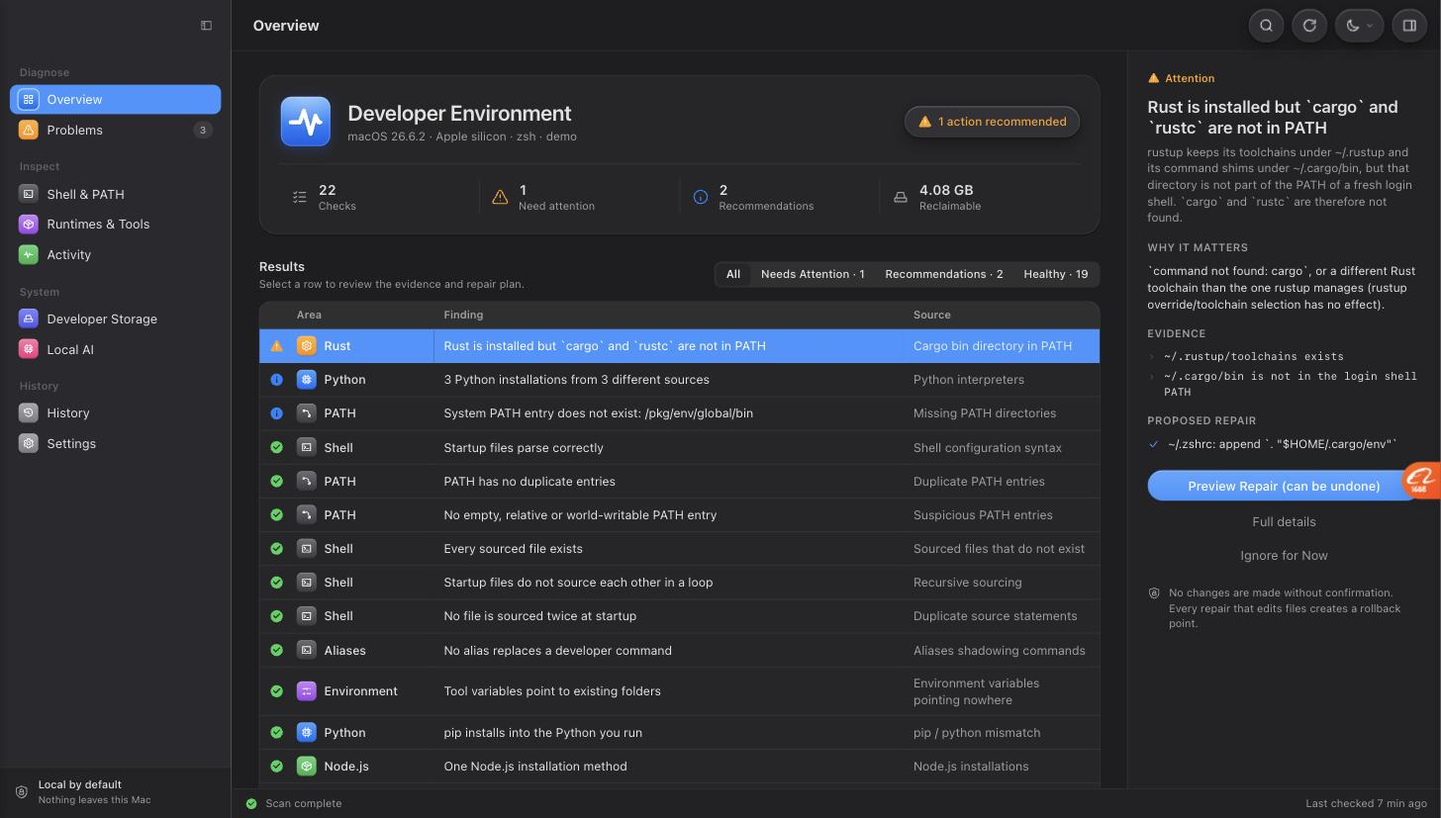
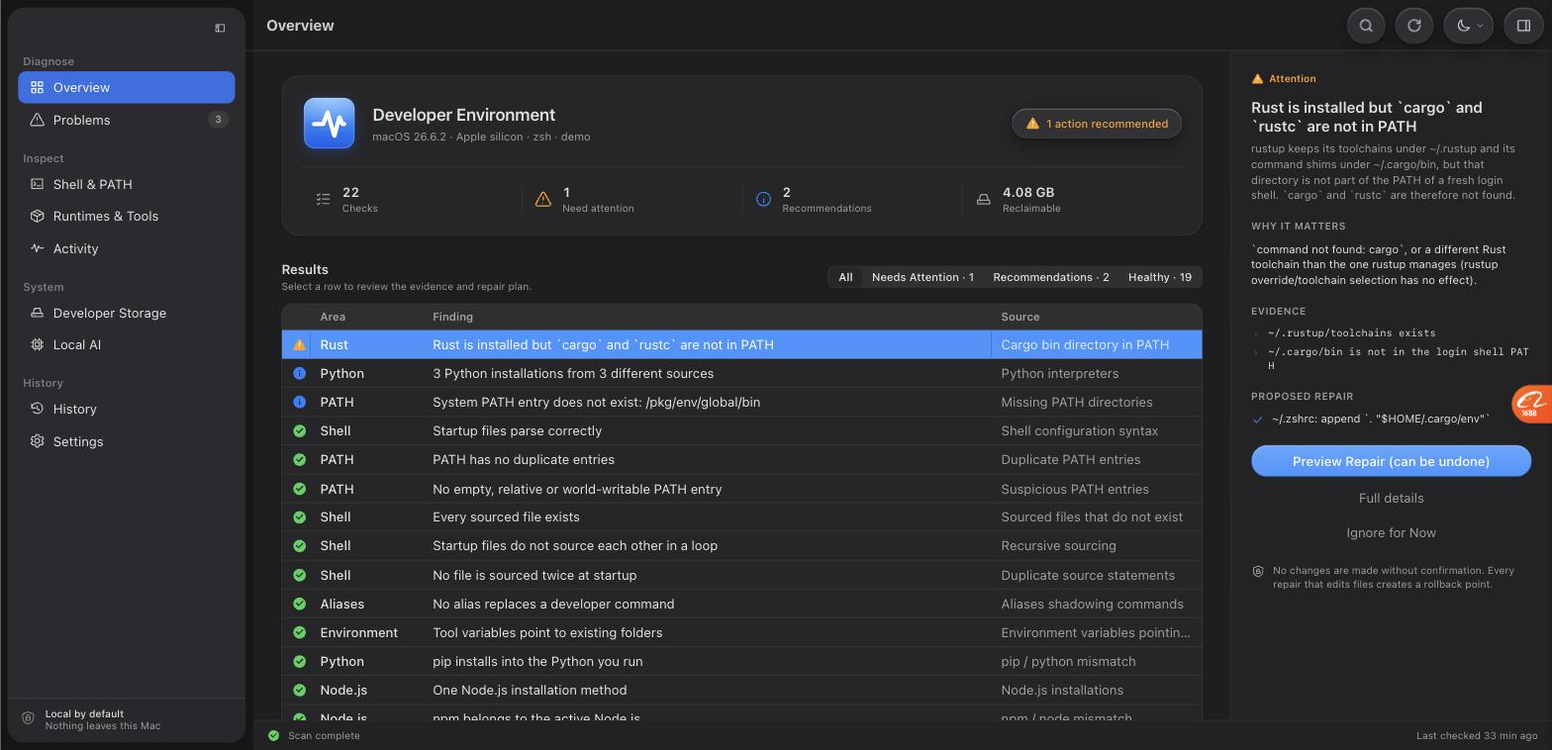
Pixel-match the native prototype: floating sidebar geometry, toolbar buttons, macOS text styles
Measured on the SwiftUI prototype screenshot (1320x820 @2x) and applied:
- Sidebar as a floating panel inset 8pt, 236pt wide, 16pt corners, window
  frame #f4f4f4 behind it; traffic lights at (19,19); sidebar toggle at the
  panel's top-right
- Section headers 11pt semibold #aeaeae with 16pt/3pt spacing, rows 32pt
  tall with 8pt corner selection (#2962d9), monochrome 16pt icons, label at
  37pt from the row edge, 21x17pt count badge, footer 44pt with 10pt text
- Toolbar 51pt with a 1pt hairline, 15pt bold title in #4c4c4c, glass
  buttons 36pt (circle), 50pt (appearance pill) and 40pt (inspector), 8pt
  right margin, #4d4d4d glyphs
- Text styles per macOS: title2 17pt, title3 15pt, subheadline/caption 11/10pt
  in the header card, metrics, results header, inspector and status bar;
  28pt single-line table rows
- Screenshots refreshed

Claude-Session: https://claude.ai/code/session_0154GFVQRPcC9vkXZbvatEC7

diff --git a/apps/desktop/src/styles.css b/apps/desktop/src/styles.css
@@ -24,9 +24,19 @@
   --fill-4: rgba(0, 0, 0, 0.035);
 
   --bg-window: #ffffff;
+  --bg-window-frame: #f4f4f4;
   --bg-control: #ffffff;
-  --bg-sidebar: rgba(243, 243, 247, 0.72);
-  --bg-sidebar-opaque: #f3f3f6;
+  --bg-sidebar: rgba(252, 252, 252, 0.78);
+  --bg-sidebar-opaque: #fafafa;
+  --bg-sidebar-foot: #fefefe;
+  --sidebar-edge: rgba(0, 0, 0, 0.06);
+  --sidebar-divider: #e5e5e5;
+  --sidebar-section: #aeaeae;
+  --sidebar-selection: #2962d9;
+  --toolbar-line: #dedede;
+  --toolbar-title: #4c4c4c;
+  --toolbar-icon: #4d4d4d;
+  --sidebar-icon: rgba(0, 0, 0, 0.72);
   --bg-bar: rgba(251, 251, 252, 0.88);
   --bg-inspector: #f7f7f9;
   --bg-grouped: #f5f5f7;
@@ -53,7 +63,7 @@
   --blue: #0a84ff; --orange: #ff9f0a; --green: #30d158; --red: #ff453a; --yellow: #ffd60a; --gray: #98989d; --purple: #bf5af2; --teal: #40c8e0;
   --label: rgba(255, 255, 255, 0.86); --label-2: rgba(255, 255, 255, 0.55); --label-3: rgba(255, 255, 255, 0.25); --label-4: rgba(255, 255, 255, 0.1);
   --separator: rgba(255, 255, 255, 0.12); --fill: rgba(255, 255, 255, 0.1); --fill-2: rgba(255, 255, 255, 0.08); --fill-3: rgba(255, 255, 255, 0.05); --fill-4: rgba(255, 255, 255, 0.035);
-  --bg-window: #1e1e20; --bg-control: #262628; --bg-sidebar: rgba(40, 40, 44, 0.66); --bg-sidebar-opaque: #2a2a2e; --bg-bar: rgba(34, 34, 37, 0.9); --bg-inspector: #232325; --bg-grouped: #1a1a1c; --bg-table-header: rgba(255, 255, 255, 0.04);
+  --bg-window: #1e1e20; --bg-window-frame: #161618; --bg-control: #262628; --bg-sidebar: rgba(46, 46, 50, 0.72); --bg-sidebar-opaque: #2b2b2f; --bg-sidebar-foot: rgba(40, 40, 44, 0.9); --sidebar-edge: rgba(255, 255, 255, 0.08); --sidebar-divider: rgba(255, 255, 255, 0.1); --sidebar-section: rgba(255, 255, 255, 0.38); --sidebar-selection: #2f6fe4; --toolbar-line: rgba(255, 255, 255, 0.11); --toolbar-title: rgba(255, 255, 255, 0.78); --toolbar-icon: rgba(255, 255, 255, 0.78); --sidebar-icon: rgba(255, 255, 255, 0.72); --bg-bar: rgba(34, 34, 37, 0.9); --bg-inspector: #232325; --bg-grouped: #1a1a1c; --bg-table-header: rgba(255, 255, 255, 0.04);
   --glass-bg: rgba(60, 60, 66, 0.55); --glass-border: rgba(255, 255, 255, 0.12); --glass-highlight: rgba(255, 255, 255, 0.22);
   --glass-shadow: 0 1px 3px rgba(0, 0, 0, 0.4), 0 6px 18px rgba(0, 0, 0, 0.35); --card-shadow: 0 1px 2px rgba(0, 0, 0, 0.3);
 }
@@ -70,47 +80,50 @@ code, pre, .mono { font-family: var(--mono); font-size: 11.5px; }
 pre { background: var(--fill-3); border: 0.5px solid var(--separator); border-radius: var(--r-row); padding: 10px 12px; overflow: auto; white-space: pre; max-height: 400px; margin: 8px 0; }
 h1 { font-size: 22px; font-weight: 600; letter-spacing: -0.01em; margin: 0; }
 h2 { font-size: 13px; font-weight: 600; margin: 24px 0 8px; }
-h3 { font-size: 11px; font-weight: 600; margin: 14px 0 8px; color: var(--label-2); text-transform: uppercase; letter-spacing: 0.04em; }
+h3 { font-size: 10px; font-weight: 600; margin: 16px 0 8px; color: var(--label-2); text-transform: uppercase; letter-spacing: 0.04em; }
 p { margin: 5px 0; }
 .secondary { color: var(--label-2); }
 .tertiary { color: var(--label-3); }
 .caption { font-size: 11px; }
 .caption2 { font-size: 10px; }
-.subheadline { font-size: 12px; }
+.subheadline { font-size: 11px; }
 .headline { font-size: 13px; font-weight: 600; }
-.title2 { font-size: 22px; font-weight: 600; letter-spacing: -0.01em; }
-.title3 { font-size: 17px; font-weight: 600; }
+.title2 { font-size: 17px; font-weight: 600; letter-spacing: -0.01em; }
+.title3 { font-size: 15px; font-weight: 600; }
 .nowrap { white-space: nowrap; }
 .truncate { overflow: hidden; text-overflow: ellipsis; white-space: nowrap; }
 .mono-digits { font-variant-numeric: tabular-nums; }
 
-/* ---------- window ---------- */
-.window { height: 100vh; display: grid; grid-template-columns: 236px minmax(0, 1fr); }
-.window.sidebar-hidden { grid-template-columns: 0 minmax(0, 1fr); }
-.sidebar { background: var(--bg-sidebar); border-right: 0.5px solid var(--separator); display: flex; flex-direction: column; overflow: hidden; min-width: 0; }
+/* ---------- window (measured on the native prototype at 1320x820) ---------- */
+.window { position: relative; height: 100vh; overflow: hidden; background: var(--bg-window-frame); }
+.sidebar { position: absolute; left: 8px; top: 8px; bottom: 8px; width: 236px; border-radius: 16px; background: var(--bg-sidebar); box-shadow: 0 0 0 0.5px var(--sidebar-edge), 0 1px 2px rgba(0,0,0,0.04); display: flex; flex-direction: column; overflow: hidden; transition: transform .18s ease, opacity .18s ease; }
 html.no-tauri .sidebar { background: var(--bg-sidebar-opaque); }
-.window.sidebar-hidden .sidebar { border-right: 0; }
-.sidebar-head { height: 52px; flex: none; display: flex; align-items: center; justify-content: flex-end; padding: 0 12px 0 84px; }
-.sidebar-list { flex: 1; overflow: auto; padding: 0 10px 10px; }
-.side-section { padding: 14px 10px 4px; font-size: 11px; font-weight: 600; color: var(--label-3); }
-.side-row { display: flex; align-items: center; gap: 9px; width: 100%; height: 28px; padding: 0 8px 0 9px; border-radius: var(--r-row); border: 0; background: none; color: var(--label); font: inherit; text-align: left; margin: 1px 0; }
+.window.sidebar-hidden .sidebar { transform: translateX(-260px); opacity: 0; pointer-events: none; }
+.sidebar-head { height: 40px; flex: none; display: flex; align-items: center; justify-content: flex-end; padding: 0 13px 0 76px; }
+.sidebar-head .icon-btn { width: 24px; height: 24px; color: var(--toolbar-icon); }
+.sidebar-head .icon-btn .icon { width: 20px; height: 20px; }
+.sidebar-list { flex: 1; overflow: auto; padding: 7px 10px 8px; }
+.side-section { height: 13px; line-height: 13px; margin: 16px 0 3px; padding: 0 5px; font-size: 11px; font-weight: 600; color: var(--sidebar-section); }
+.sidebar-list > div:first-child > .side-section { margin-top: 0; }
+.side-row { display: flex; align-items: center; gap: 8px; width: 100%; height: 32px; padding: 0 6px 0 11px; border-radius: 8px; border: 0; background: none; color: var(--label); font: inherit; font-size: 13px; text-align: left; margin: 0; }
 .side-row:hover { background: var(--fill-3); }
-.side-row.active { background: var(--accent); color: #fff; }
-.side-row { height: 30px; }
-.tile { display: inline-flex; align-items: center; justify-content: center; color: #fff; flex: none; box-shadow: inset 0 -1px 0 rgba(0,0,0,0.12), inset 0 0.5px 0 rgba(255,255,255,0.35), 0 0.5px 1px rgba(0,0,0,0.25); }
-.tile .icon { stroke-width: 1.9; }
+.side-row .icon { width: 16px; height: 16px; flex: none; color: var(--sidebar-icon); stroke-width: 1.7; }
+.side-row.active .icon { color: #fff; }
+.side-row.active { background: var(--sidebar-selection); color: #fff; }
 .side-row .label { flex: 1; min-width: 0; overflow: hidden; text-overflow: ellipsis; white-space: nowrap; }
-.side-row .badge { font-size: 10px; font-weight: 600; font-variant-numeric: tabular-nums; color: var(--label-2); background: var(--fill-2); padding: 2px 7px; border-radius: var(--pill); }
-.side-row.active .badge { color: #fff; background: rgba(255, 255, 255, 0.25); }
-.side-row.active .tile { box-shadow: 0 0 0 1.5px rgba(255, 255, 255, 0.55); }
-.sidebar-foot { flex: none; border-top: 0.5px solid var(--separator); background: var(--bg-bar); padding: 10px 14px 12px; display: flex; gap: 9px; align-items: center; }
-.sidebar-foot .icon { color: var(--label-2); width: 16px; height: 16px; }
-.sidebar-foot .t { font-size: 11px; font-weight: 500; }
-.sidebar-foot .s { font-size: 10px; color: var(--label-2); }
+.side-row .badge { height: 17px; min-width: 21px; padding: 0 7px; display: inline-flex; align-items: center; justify-content: center; font-size: 10px; font-weight: 600; font-variant-numeric: tabular-nums; color: var(--label-2); background: var(--fill-2); border-radius: 8.5px; }
+.side-row.active .badge { color: #fff; background: rgba(255, 255, 255, 0.28); }
+.sidebar-foot { flex: none; height: 44px; border-top: 1px solid var(--sidebar-divider); background: var(--bg-sidebar-foot); padding: 9px 12px 0; display: flex; gap: 9px; align-items: flex-start; }
+.sidebar-foot .icon { color: #7f7f7f; width: 16px; height: 16px; margin-top: 2px; }
+.sidebar-foot .t { font-size: 10px; font-weight: 500; color: var(--label); line-height: 12px; }
+.sidebar-foot .s { font-size: 10px; color: var(--label-2); line-height: 12px; }
 
-.main { display: flex; flex-direction: column; min-width: 0; height: 100vh; background: var(--bg-window); }
-.toolbar { height: 52px; flex: none; display: flex; align-items: center; gap: 8px; padding: 0 14px 0 22px; border-bottom: 0.5px solid var(--separator); background: var(--bg-window); }
-.toolbar .ttl { font-size: 15px; font-weight: 700; letter-spacing: -0.01em; }
+.main { position: absolute; left: 252px; right: 0; top: 0; bottom: 0; display: flex; flex-direction: column; min-width: 0; background: var(--bg-window); transition: left .18s ease; }
+.window.sidebar-hidden .main { left: 0; }
+.toolbar { position: relative; height: 51px; flex: none; display: flex; align-items: center; gap: 10px; padding: 0 8px 0 13px; background: var(--bg-window); }
+.toolbar::after { content: ""; position: absolute; left: -8px; right: 0; bottom: 0; height: 1px; background: var(--toolbar-line); }
+.window.sidebar-hidden .toolbar { padding-left: 84px; }
+.toolbar .ttl { font-size: 15px; font-weight: 700; color: var(--toolbar-title); letter-spacing: -0.01em; }
 .toolbar .spacer { flex: 1; }
 .toolbar .status { font-size: 11px; color: var(--label-2); margin-right: 6px; }
 .body { flex: 1; display: grid; grid-template-columns: minmax(0, 1fr); min-height: 0; }
@@ -119,15 +132,17 @@ html.no-tauri .sidebar { background: var(--bg-sidebar-opaque); }
 .content.narrow { max-width: 1160px; }
 
 /* ---------- glass controls ---------- */
-.tb-btn { position: relative; display: inline-flex; align-items: center; justify-content: center; gap: 4px; height: 34px; min-width: 34px; padding: 0 9px; border-radius: var(--pill); border: 0.5px solid var(--glass-border); background: linear-gradient(var(--tint), var(--tint)), var(--glass-bg); -webkit-backdrop-filter: blur(24px) saturate(1.6); backdrop-filter: blur(24px) saturate(1.6); box-shadow: inset 0 1px 0 var(--glass-highlight), var(--glass-shadow); color: var(--label); font: inherit; }
+.tb-btn { position: relative; display: inline-flex; align-items: center; justify-content: center; gap: 3px; height: 36px; min-width: 36px; padding: 0 10px; border-radius: var(--pill); border: 0.5px solid var(--glass-border); background: linear-gradient(var(--tint), var(--tint)), var(--glass-bg); -webkit-backdrop-filter: blur(24px) saturate(1.6); backdrop-filter: blur(24px) saturate(1.6); box-shadow: inset 0 1px 0 var(--glass-highlight), var(--glass-shadow); color: var(--label); font: inherit; }
 .tb-btn:hover { filter: brightness(1.03); }
 .tb-btn:active { transform: scale(0.96); }
 .tb-btn:disabled { opacity: 0.45; }
+.tb-btn { color: var(--toolbar-icon); }
 .tb-btn .icon { width: 17px; height: 17px; }
+.tb-btn.wide { padding: 0 8px 0 11px; }
 .tb-btn .chev { width: 10px; height: 10px; color: var(--label-2); }
-.tb-group { display: inline-flex; gap: 8px; }
+.tb-group { display: inline-flex; gap: 10px; }
 
-.capsule { display: inline-flex; align-items: center; gap: 6px; padding: 7px 13px; border-radius: var(--pill); border: 0.5px solid var(--glass-border); background: linear-gradient(var(--tint), var(--tint)), var(--glass-bg); -webkit-backdrop-filter: blur(20px); backdrop-filter: blur(20px); box-shadow: inset 0 1px 0 var(--glass-highlight), var(--glass-shadow); font-size: 12px; font-weight: 500; }
+.capsule { display: inline-flex; align-items: center; gap: 6px; padding: 7px 13px; font-size: 11px; font-weight: 500; border-radius: var(--pill); border: 0.5px solid var(--glass-border); background: linear-gradient(var(--tint), var(--tint)), var(--glass-bg); -webkit-backdrop-filter: blur(20px); backdrop-filter: blur(20px); box-shadow: inset 0 1px 0 var(--glass-highlight), var(--glass-shadow); }
 .capsule .icon { width: 15px; height: 15px; }
 .capsule.orange { color: var(--orange); }
 .capsule.green { color: var(--green); }
@@ -159,8 +174,8 @@ input.text:focus, select.text:focus { box-shadow: 0 0 0 3px var(--accent-soft); 
 select.text { -webkit-appearance: none; appearance: none; padding-right: 26px; background-image: linear-gradient(45deg, transparent 50%, var(--label-2) 50%), linear-gradient(135deg, var(--label-2) 50%, transparent 50%); background-position: calc(100% - 13px) 55%, calc(100% - 9px) 55%; background-size: 4px 4px; background-repeat: no-repeat; }
 label.check { display: inline-flex; gap: 6px; align-items: center; font-size: 12px; }
 
-.segmented { display: inline-flex; padding: 2px; border-radius: 7px; background: var(--fill-2); gap: 1px; }
-.segmented button { font: inherit; font-size: 11.5px; font-weight: 500; border: 0; background: transparent; color: var(--label); padding: 3px 10px; border-radius: 5px; }
+.segmented { display: inline-flex; padding: 1.5px; border-radius: 6px; background: var(--fill-2); gap: 1px; }
+.segmented button { font: inherit; font-size: 11px; font-weight: 500; border: 0; background: transparent; color: var(--label); padding: 2px 9px; border-radius: 4.5px; line-height: 15px; }
 .segmented button.active { background: var(--bg-control); box-shadow: 0 0.5px 2px rgba(0,0,0,0.15); font-weight: 600; }
 
 .switch { position: relative; width: 34px; height: 20px; border-radius: var(--pill); background: var(--fill); border: 0; padding: 0; transition: background .15s; flex: none; }
@@ -193,13 +208,13 @@ label.check { display: inline-flex; gap: 6px; align-items: center; font-size: 12
 .grid.cols-4 { grid-template-columns: repeat(4, minmax(0, 1fr)); }
 .section-head { display: flex; align-items: center; justify-content: space-between; gap: 12px; margin: 24px 0 10px; }
 .section-head .h { font-size: 13px; font-weight: 600; }
-.section-head .c { font-size: 11px; color: var(--label-2); margin-top: 1px; }
+.section-head .c { font-size: 10px; color: var(--label-2); margin-top: 1px; }
 .section-head:first-child { margin-top: 0; }
 
 .table-wrap { border: 0.5px solid var(--separator); border-radius: var(--r-table); overflow: hidden; background: var(--bg-control); }
 table.data { width: 100%; border-collapse: separate; border-spacing: 0; }
-table.data th { font-size: 11px; font-weight: 600; color: var(--label-2); text-align: left; padding: 6px 10px; background: var(--bg-table-header); border-bottom: 0.5px solid var(--separator); white-space: nowrap; }
-table.data td { padding: 7px 10px; border-bottom: 0.5px solid var(--separator); vertical-align: middle; font-size: 12.5px; }
+table.data th { font-size: 11px; font-weight: 600; color: var(--label-2); text-align: left; padding: 5px 10px; background: var(--bg-table-header); border-bottom: 0.5px solid var(--separator); white-space: nowrap; }
+table.data td { padding: 5px 10px; height: 28px; border-bottom: 0.5px solid var(--separator); vertical-align: middle; font-size: 13px; }
 table.data tr:last-child td { border-bottom: 0; }
 table.data tr.clickable:hover td { background: var(--fill-4); }
 table.data tr.selected td { background: var(--accent); color: #fff; }
@@ -212,8 +227,8 @@ table.data td .icon.sev { width: 15px; height: 15px; vertical-align: -3px; }
 .metrics { display: flex; align-items: stretch; }
 .metric { flex: 1; display: flex; align-items: center; gap: 10px; padding: 0 12px; }
 .metric .icon { width: 18px; height: 18px; color: var(--label-2); flex: none; }
-.metric .v { font-size: 14px; font-weight: 600; font-variant-numeric: tabular-nums; }
-.metric .l { font-size: 11px; color: var(--label-2); }
+.metric .v { font-size: 13px; font-weight: 600; font-variant-numeric: tabular-nums; }
+.metric .l { font-size: 10px; color: var(--label-2); }
 .metric + .metric { border-left: 0.5px solid var(--separator); }
 .app-tile { width: 54px; height: 54px; border-radius: 14px; background: linear-gradient(180deg, #4ea1ff, #0a6cf5); display: flex; align-items: center; justify-content: center; color: #fff; box-shadow: 0 4px 8px rgba(10, 108, 245, 0.18); flex: none; }
 .app-tile .icon { width: 28px; height: 28px; }
@@ -235,8 +250,8 @@ table.data td .icon.sev { width: 15px; height: 15px; vertical-align: -3px; }
 .hairline { height: 0.5px; background: var(--separator); margin: 12px 0; }
 .evidence { display: flex; gap: 8px; align-items: flex-start; margin: 5px 0; }
 .evidence .icon { width: 9px; height: 9px; color: var(--label-3); margin-top: 4px; flex: none; }
-.evidence .mono { font-size: 11px; word-break: break-all; }
-.check-line { display: flex; gap: 8px; align-items: flex-start; margin: 6px 0; font-size: 12px; }
+.evidence .mono { font-size: 10px; word-break: break-all; }
+.check-line { display: flex; gap: 8px; align-items: flex-start; margin: 6px 0; font-size: 11px; }
 .check-line .icon { width: 13px; height: 13px; color: var(--accent); margin-top: 2px; flex: none; }
 
 details.disclosure > summary { list-style: none; display: inline-flex; align-items: center; gap: 5px; color: var(--accent); font-size: 12px; padding: 4px 0; }
@@ -250,15 +265,15 @@ details.disclosure > .dbody { padding: 4px 0 2px; }
 
 /* ---------- inspector ---------- */
 .inspector { border-left: 0.5px solid var(--separator); background: var(--bg-inspector); overflow: auto; padding: 20px; }
-.inspector .sev { display: inline-flex; align-items: center; gap: 5px; font-size: 11px; font-weight: 600; }
+.inspector .sev { display: inline-flex; align-items: center; gap: 5px; font-size: 10px; font-weight: 600; }
 .inspector .sev .icon { width: 13px; height: 13px; }
-.inspector .ititle { font-size: 17px; font-weight: 600; margin: 8px 0 6px; line-height: 1.25; }
-.inspector .isummary { font-size: 12px; color: var(--label-2); }
-.inspector .note { display: flex; gap: 8px; align-items: flex-start; font-size: 11px; color: var(--label-2); margin-top: 18px; }
+.inspector .ititle { font-size: 15px; font-weight: 600; margin: 8px 0 6px; line-height: 1.25; }
+.inspector .isummary { font-size: 11px; color: var(--label-2); }
+.inspector .note { display: flex; gap: 8px; align-items: flex-start; font-size: 10px; color: var(--label-2); margin-top: 18px; }
 .inspector .note .icon { width: 14px; height: 14px; flex: none; margin-top: 1px; }
 
 /* ---------- status bar ---------- */
-.statusbar { height: 30px; flex: none; display: flex; align-items: center; gap: 8px; padding: 0 14px; border-top: 0.5px solid var(--separator); background: var(--bg-bar); font-size: 11px; color: var(--label-2); }
+.statusbar { height: 30px; flex: none; display: flex; align-items: center; gap: 8px; padding: 0 14px; border-top: 0.5px solid var(--separator); background: var(--bg-bar); font-size: 10px; color: var(--label-2); }
 .statusbar .icon { width: 13px; height: 13px; }
 .statusbar .ok { color: var(--green); }
 .statusbar .spacer { flex: 1; }

diff --git a/apps/desktop/src/components/Toolbar.tsx b/apps/desktop/src/components/Toolbar.tsx
@@ -13,7 +13,7 @@ export function Toolbar({ title, status, scanning, onScan, inspector, onToggleIn
   );
   return (
     <div className="toolbar" data-tauri-drag-region>
-      {sidebarHidden && <button className="tb-btn" onClick={onToggleSidebar} title="Show sidebar"><Icon name="sidebar-left" /></button>}
+      {sidebarHidden && <button className="icon-btn" onClick={onToggleSidebar} title="Show sidebar" style={{ marginRight: 6 }}><Icon name="sidebar-left" size={20} /></button>}
       <span className="ttl" data-tauri-drag-region>{title}</span>
       <div className="spacer" data-tauri-drag-region />
       {tabs && tabs.options.length > 1 && <Segmented options={tabs.options} value={tabs.value} onChange={tabs.onChange} />}
@@ -23,7 +23,7 @@ export function Toolbar({ title, status, scanning, onScan, inspector, onToggleIn
         <button className="tb-btn" onClick={onSearch} title="Search (⌘K)"><Icon name="search" /></button>
         <button className="tb-btn" onClick={onScan} disabled={scanning} title="Run a new diagnostic scan (⌘R)"><Icon name="refresh" /></button>
         <div style={{ position: "relative" }}>
-          <button className="tb-btn" onClick={() => setMenu((m) => !m)} title="Appearance and Liquid Glass"><Icon name={appearanceIcon} /><Icon name="chevron-down" className="chev" /></button>
+          <button className="tb-btn wide" style={{ width: 50 }} onClick={() => setMenu((m) => !m)} title="Appearance and Liquid Glass"><Icon name={appearanceIcon} /><Icon name="chevron-down" className="chev" /></button>
           <Popover open={menu} onClose={() => setMenu(false)}>
             <div className="ph">Appearance</div>
             {(["system", "light", "dark"] as Appearance[]).map((a) => item(a === "system" ? "System" : a === "light" ? "Light" : "Dark", appearance === a, a === "system" ? "half-circle" : a === "light" ? "sun" : "moon", () => setAppearance(a)))}
@@ -32,7 +32,7 @@ export function Toolbar({ title, status, scanning, onScan, inspector, onToggleIn
             {(["clear", "tinted"] as Glass[]).map((g) => item(g === "clear" ? "Clear" : "Tinted", glass === g, undefined, () => setGlass(g)))}
           </Popover>
         </div>
-        {inspector !== null && <button className="tb-btn" onClick={onToggleInspector} title={inspector ? "Hide Inspector (⌥⌘I)" : "Show Inspector (⌥⌘I)"}><Icon name="sidebar-right" /></button>}
+        {inspector !== null && <button className="tb-btn" style={{ width: 40 }} onClick={onToggleInspector} title={inspector ? "Hide Inspector (⌥⌘I)" : "Show Inspector (⌥⌘I)"}><Icon name="sidebar-right" /></button>}
       </div>
     </div>
   );

diff --git a/apps/desktop/src/components/FindingsView.tsx b/apps/desktop/src/components/FindingsView.tsx
@@ -2,8 +2,7 @@ import { useEffect, useMemo, useState } from "react";
 import { api, errorMessage } from "../lib/api";
 import { useNav } from "../lib/nav";
 import type { DetectorMeta, FixPreview, Issue, Transaction } from "../lib/types";
-import { LEVELS, areaStyle, plainFixLabel, type Finding, type Level } from "../lib/plain";
-import { Tile } from "./Tile";
+import { LEVELS, plainFixLabel, type Finding, type Level } from "../lib/plain";
 import { shortenHome } from "../lib/format";
 import { Button, DataTable, Disclosure, Empty, ErrorBox, GroupBox, Loading, Sheet, usePrefs, useToast } from "./Basics";
 import { DiffView } from "./DiffView";
@@ -17,9 +16,9 @@ export function FindingsTable({ findings, selected, onSelect, empty }: { finding
     <DataTable<Finding>
       columns={[
         { key: "level", label: "", width: "28px", className: "icon-cell", render: (f) => <Icon name={LEVELS[f.level].icon} className="sev" title={LEVELS[f.level].title} style={{ color: LEVELS[f.level].color }} /> },
-        { key: "area", label: "Area", width: "150px", render: (f) => <span style={{ display: "inline-flex", alignItems: "center", gap: 8, fontWeight: 500 }}><Tile color={areaStyle(f.area).color} icon={areaStyle(f.area).icon} size={20} />{f.area}</span> },
-        { key: "title", label: "Finding", render: (f) => f.title },
-        { key: "source", label: "Source", width: "200px", render: (f) => <span className="secondary">{f.source}</span> },
+        { key: "area", label: "Area", width: "112px", render: (f) => <span style={{ fontWeight: 500 }}>{f.area}</span> },
+        { key: "title", label: "Finding", render: (f) => <span className="truncate" style={{ display: "block", maxWidth: 520 }} title={f.title}>{f.title}</span> },
+        { key: "source", label: "Source", width: "190px", render: (f) => <span className="secondary truncate" style={{ display: "block", maxWidth: 190 }} title={f.source}>{f.source}</span> },
       ]}
       rows={findings}
       rowKey={(f) => f.key}

diff --git a/apps/desktop/src/App.tsx b/apps/desktop/src/App.tsx
@@ -4,7 +4,6 @@ import { NavContext, SECTIONS, sectionOf, type NavParams, type PageId } from "./
 import type { DetectorMeta, ScanMode, ScanProgress } from "./lib/types";
 import { PrefsContext, ToastProvider, useToast, type Appearance, type Glass } from "./components/Basics";
 import { Icon } from "./components/Icons";
-import { Tile } from "./components/Tile";
 import { Toolbar } from "./components/Toolbar";
 import { StatusBar } from "./components/StatusBar";
 import { SearchPalette } from "./components/SearchPalette";
@@ -176,7 +175,7 @@ function Shell() {
                   <div className="side-section">{group.group}</div>
                   {group.items.map((sec) => (
                     <button key={sec.id} className={`side-row ${section.id === sec.id ? "active" : ""}`} onClick={() => navigate(sec.pages[0].id)}>
-                      <Tile color={sec.color} icon={sec.icon} size={20} />
+                      <Icon name={sec.icon} className="icon" size={16} />
                       <span className="label">{sec.label}</span>
                       {sec.id === "problems" && issueCount != null && issueCount > 0 && <span className="badge">{issueCount}</span>}
                     </button>

diff --git a/apps/desktop/src/components/EnvironmentHeader.tsx b/apps/desktop/src/components/EnvironmentHeader.tsx
@@ -27,8 +27,8 @@ export function EnvironmentHeader({ overview, reclaimable }: { overview: Overvie
       <div style={{ display: "flex", alignItems: "center", gap: 16 }}>
         <Logo size={54} />
         <div style={{ flex: 1, minWidth: 0 }}>
-          <div className="title2">Developer Environment</div>
-          <div className="subheadline secondary">{sys.os.name} {sys.os.version} · {sys.os.arch === "arm64" ? "Apple silicon" : "Intel"} · {sys.shell} · {sys.user}</div>
+          <div className="title2" style={{ fontSize: 17 }}>Developer Environment</div>
+          <div className="subheadline secondary" style={{ marginTop: 3 }}>{sys.os.name} {sys.os.version} · {sys.os.arch === "arm64" ? "Apple silicon" : "Intel"} · {sys.shell} · {sys.user}</div>
         </div>
         <span className={`capsule ${capsule.tone}`}><Icon name={capsule.icon} />{capsule.text}</span>
       </div>
